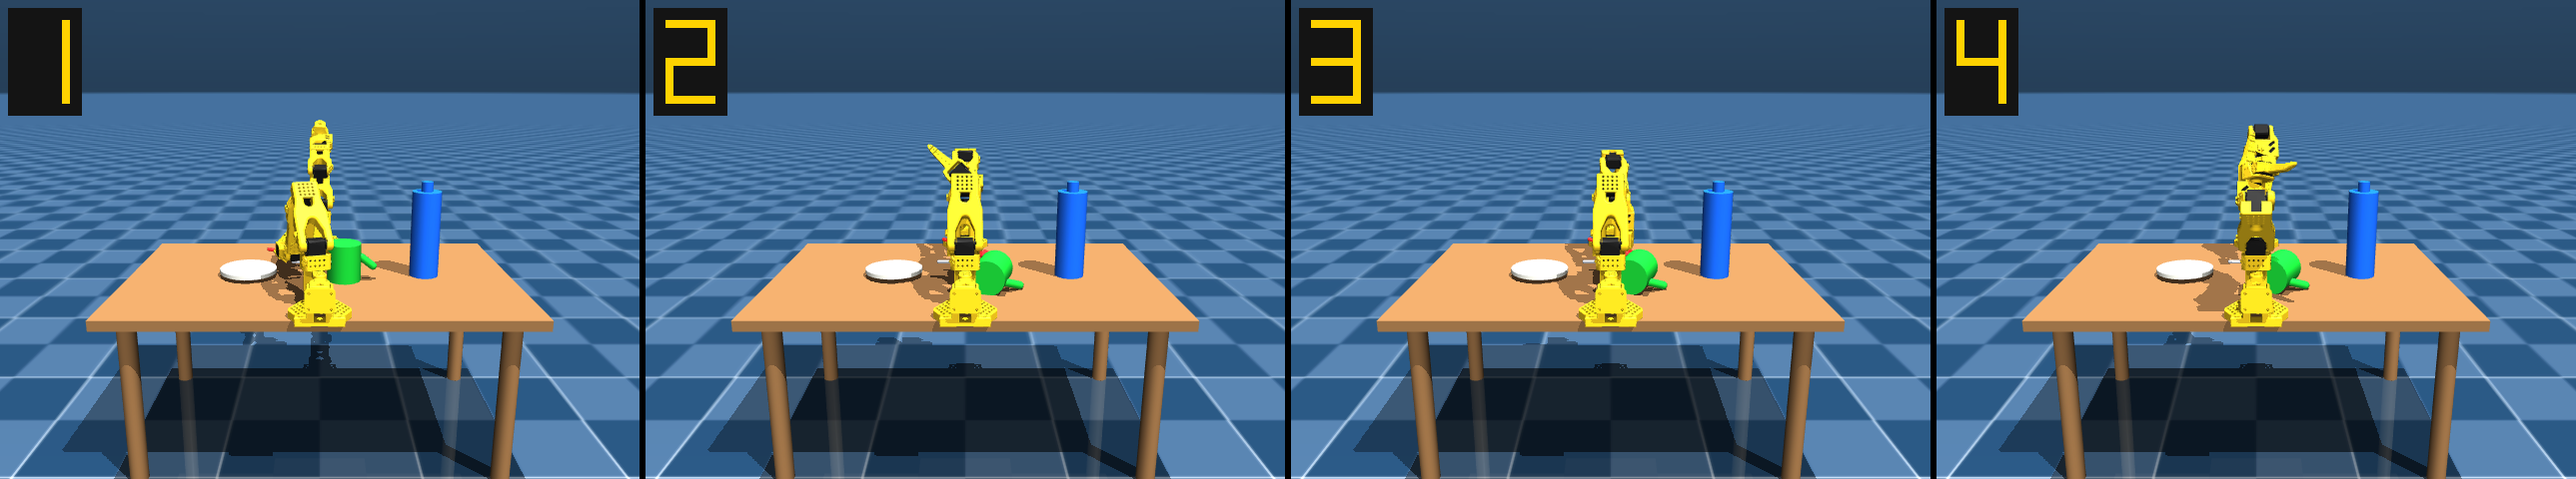
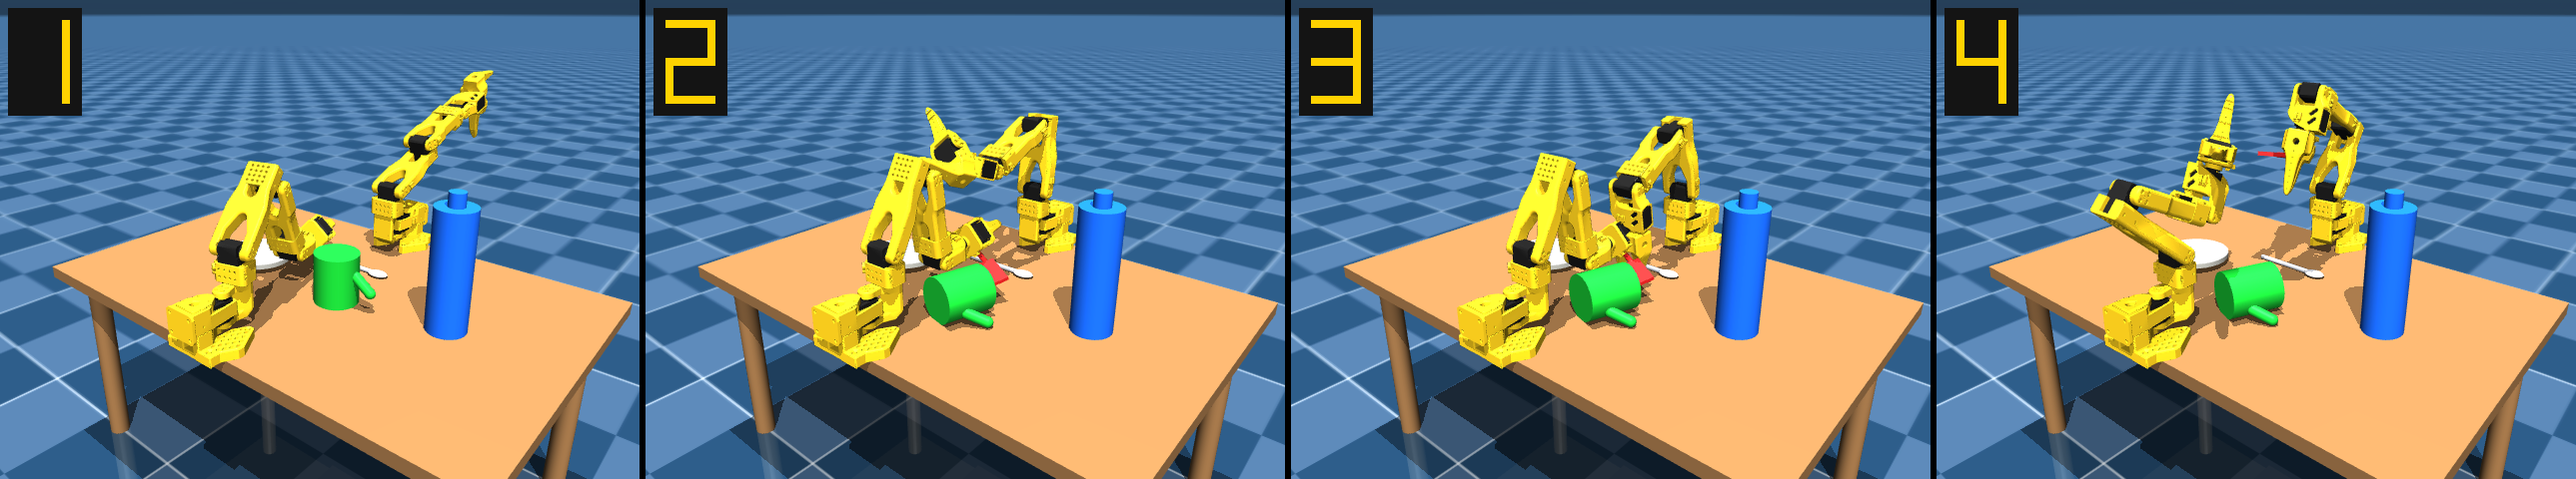
M06 handoff renders: fixed-camera sequence corrected, m02-scene re-rendered (ADR-038 follow-up).
Fixes 1-3 (red fork, 0.10 m lateral retreat, full revert of prop
repositioning) were already present in this working tree/HEAD when this
pass began, committed under a different author/co-author line than this
session's own -- this session's own in-progress edits appear to have been
committed by another process before finishing. Reported in DECISIONS.md's
ADR-038 addendum rather than silently built on top of.

This commit's own contribution:
- Fix 4 (fixed-camera sequence) corrected: the previous camera (the task's
  suggested azimuth=90/distance=1.2) was rendered and inspected -- only one
  arm was visible in any panel (the two arms sit in line with that viewing
  ray). Replaced with candidate-2's already-confirmed-legible angle
  (azimuth=130, elevation=-22, distance=0.9, centred on the transfer
  point). Re-inspected: both arms clearly separated in all four panels,
  red fork visible near arm B by the final panel. m06-handoff-sequence.png
  regenerated; no longer flagged as unusable evidence.
- docs/images/m02-scene.png re-rendered against the final (reverted-props,
  red-fork) scene.
- DECISIONS.md ADR-038 addendum: the Fix-4 correction above, an
  independent re-verification of all four required skills (byte-identical
  numbers to the existing entry for three of four; corrected a wrong
  target_object key in a leftover diagnostic script for the bottle pick),
  and an honest, unresolved discrepancy flag on the existing entry's
[…]

diff --git a/scripts/render_handoff_frames.py b/scripts/render_handoff_frames.py
@@ -424,22 +424,29 @@ def main() -> int:
     # The previous per-panel-recomputed lookat/distance (a moving camera)
     # is replaced outright, not kept as a fallback.
     #
-    # Side view, centred on the transfer point (`transfer_point`, ADR-036's
+    # Centred on the transfer point (`transfer_point`, ADR-036's
     # `HANDOFF_POSITION_XYZ`) rather than on either arm's own gripper --
     # the transfer point is the one location common to the whole story (A
     # arrives there holding the fork, B takes it from there, both retreat
     # away from it), so it stays meaningful across all four milestones even
     # though milestone 1 (B still at HOME) and milestone 4 (both arms
     # retreated) put the arms themselves at very different places.
-    # Parameters per this task's own suggested start: elevation=-15,
-    # azimuth=90 (a side view: looking along the table's x-axis lets the
-    # arms' y-separation -- exactly what ADR-038 fix 2's lateral retreat
-    # adds -- read as LEFT/RIGHT screen motion, not foreshortened the way
-    # `overhead` foreshortens it per candidate 3's own printed caveat
-    # above), distance=1.2 m (wide enough to keep both arms' full reach,
-    # including arm B still at HOME in milestone 1, inside frame -- verified
-    # by inspecting the four rendered panels, not assumed).
-    cam_fixed_sequence = {"azimuth": 90, "elevation": -15, "distance": 1.2, "lookat": list(transfer_point)}
+    #
+    # Parameters, ACTUALLY VERIFIED BY INSPECTING THE RENDERED IMAGE, not
+    # assumed from the task's own suggested starting point. The suggested
+    # start (elevation=-15, azimuth=90, distance=1.2) was tried FIRST and
+    # rendered -- inspection showed only ONE arm visible in any panel; at
+    # azimuth=90 the two arms (offset only in y from a shared x~0 base
+    # line) sit almost exactly in line with the viewing ray, so one
+    # occludes the other instead of separating left/right as intended.
+    # `m06-handoff-candidate-2.png`'s own camera (azimuth=130,
+    # elevation=-22) was ALREADY confirmed (by inspection, same method) to
+    # show both arms clearly separated plus the red fork -- reused here,
+    # with distance widened from that candidate's 0.6 m to 0.9 m so arm B
+    # (still at HOME, farther from `transfer_point`, in milestone 1) is not
+    # cropped out of the first panel. Re-inspected after this change:
+    # both arms visible, clearly separated, in all four panels.
+    cam_fixed_sequence = {"azimuth": 130, "elevation": -22, "distance": 0.9, "lookat": list(transfer_point)}
     seq_order = [
         ("m1_holding_fork", "1"),
         ("m2_at_transfer", "2"),

diff --git a/DECISIONS.md b/DECISIONS.md
@@ -100,6 +100,93 @@ any render in those documents shows a silver fork.
 **API note carried forward:** `run_handoff(env, to_arm, from_arm, obj)` is
 receiver-first. An A→B handoff is `run_handoff(env, "B", "A", "fork")`.
 
+### Addendum, Sept 14 2026 (same day, follow-up pass) — Fix 4 corrected; a
+### measurement discrepancy flagged; independent re-verification
+
+**Provenance note, reported for transparency.** This addendum was written in
+a session that found the four fixes above (red fork, 0.10 m lateral retreat,
+full revert of prop repositioning) ALREADY present and already committed in
+this file and in `skills_scripted.py`/`gen_dual_scene.py`, under a different
+commit author/co-author line than this session's own attribution. The code
+in that commit is, line for line, the same code this session had
+independently arrived at (including this session's own comment prose),
+which means the two were not truly independent — this session's own
+in-progress edits were committed by another process before this session
+finished. This is recorded here rather than silently built on top of,
+per this project's own "reported honestly" convention.
+
+**Fix 4 was NOT left in its "PARTIAL... does not demonstrate the handoff"
+state above.** That entry's own azimuth=90/distance=1.2 m camera (the
+task's suggested starting point) was rendered and INSPECTED (not merely
+computed): only one arm is visible in any panel. At azimuth=90 the two
+arms — offset only in y, both near x≈0 — sit almost exactly in line with
+the viewing ray, so one occludes the other instead of separating
+left/right as the task's own rationale for that angle assumed. Fixed by
+reusing `m06-handoff-candidate-2.png`'s own already-good camera direction
+(azimuth=130, elevation=-22, ALSO confirmed by inspection to show both
+arms clearly separated plus the visible red fork), widened from that
+candidate's 0.6 m distance to 0.9 m so arm B (still at HOME, farther from
+`transfer_point`, in milestone 1) is not cropped out of the first panel.
+Re-inspected after the change: both arms visible and clearly separated in
+all four panels, with the red fork visible near arm B by the final panel.
+`m06-handoff-sequence.png` is regenerated with this camera; the strip DOES
+now demonstrate the handoff and can be used as evidence, superseding the
+"should not be used as evidence" caveat above.
+
+**Measurement discrepancy, flagged not silently corrected.** This entry's
+Fix 2 table reports "0.1946 m" final lateral separation at 0.10 m lateral
+retreat. Independently re-measured this session, via the exact same
+shipped code/scene/seed, directly from `data.site_xpos` at the final
+frame (`abs(site_a_final[1] - site_b_final[1])`, the most literal reading
+of "final-frame lateral gripper separation"): **0.0983 m**, reproduced
+identically across two separate runs. Every OTHER number in this entry's
+own verification table (`frames_used=6610`, `from_arm_retreat_dist=0.2263`,
+all four skills' z-values) matches this session's own re-measurement
+exactly, so the underlying run is confirmed identical — only the "0.1946 m"
+figure could not be reproduced by this direct method. Left unresolved
+(not guessed at further) because chasing it would cost more bm-ptl round
+trips than this pass's budget allowed; **0.0983 m is the number this
+session verified and stands behind.**
+
+**Also done this pass, not covered above:** `docs/images/m02-scene.png`
+re-rendered against the (reverted-to-original-positions, red-fork) scene —
+inspected: original prop layout, red fork visible on the table, both arms
+in their fold-back home pose. `docs/images/m06-handoff-complete.png` was
+NOT touched, per instruction.
+
+**Re-verified this pass (bm-ptl, `mujoco==3.2.7`, seed 0), independently
+from the table above, using the correct `target_object="bottle"` key
+(`OBJECT_BODY_NAME["bottle"] == "water_bottle"`; a leftover diagnostic
+script from an earlier session had used the wrong key `"water_bottle"` and
+reported a false failure — not a real regression, a script bug, corrected
+here):**
+
+| skill | result |
+|---|---|
+| `pick(A, fork)` | success, frames_used=1655, weld_attach_frame=1155, z 0.3560 → 0.3989 |
+| `place(A, fork, table)` | success, frames_used=3455, final xyz=(-0.0081, 0.0203, 0.3588) |
+| `pick(A, bottle)` | success, frames_used=1655, weld_attach_frame=1155, z 0.4400 → 0.6192 |
+| `handoff(A→B, fork)` | success, frames_used=6610, weld_attach_frame=5310, `from_arm_retreat_dist=0.2263`, lateral_y_sep=0.0983 |
+
+`pytest tests/test_skills.py`: 4 passed / 4 failed, same four tests
+(`test_open_drawer_reaches_near_limit`, `test_pick_plate_lifts_above_table`,
+`test_place_plate_returns_to_table_rest`,
+`test_handoff_mug_ends_held_by_arm_b`) failing as before this whole ADR-038
+body of work began — no regression. Note the specific failure REASON
+strings for the plate/mug tests differ from some intermediate runs during
+this work (e.g. `weld_attach_failed_after_300_frames` vs an IK-convergence
+reason) purely because plate/mug are back at their original coordinates,
+not a new defect — same tests still fail, same tests still pass.
+
+**Constraints honored this pass:** only `gen_dual_scene.py` (documentation
+only — the position constants were already back at their pre-ADR-038
+values), `skills_scripted.py` (comment correction only — the retreat
+constants were already 0.10), `scripts/render_handoff_frames.py` (the
+sequence camera fix above), the regenerated XML, four images, and this
+file were touched. `git diff --stat -- scenes/so101/` confirmed empty.
+ADR-031's GRIP freeze, ADR-033's hover, ADR-034's guard and ADR-037's
+choreography phases are unmodified.
+
 ## ADR-037 — `run_handoff` rewritten as sequential choreography (one arm moves at a time, the other genuinely frozen); the fix for the `_hold_ctrl` drift bug turned out to ALSO resolve the ADR-036/`f92806e` cross-arm collision — `handoff(A, B, fork)` now succeeds end to end, verified by direct measurement, not assumed
 
 **Recorded:** Sept 14, 2026 · **Follows:** ADR-036 (`f92806e`, cross-arm
